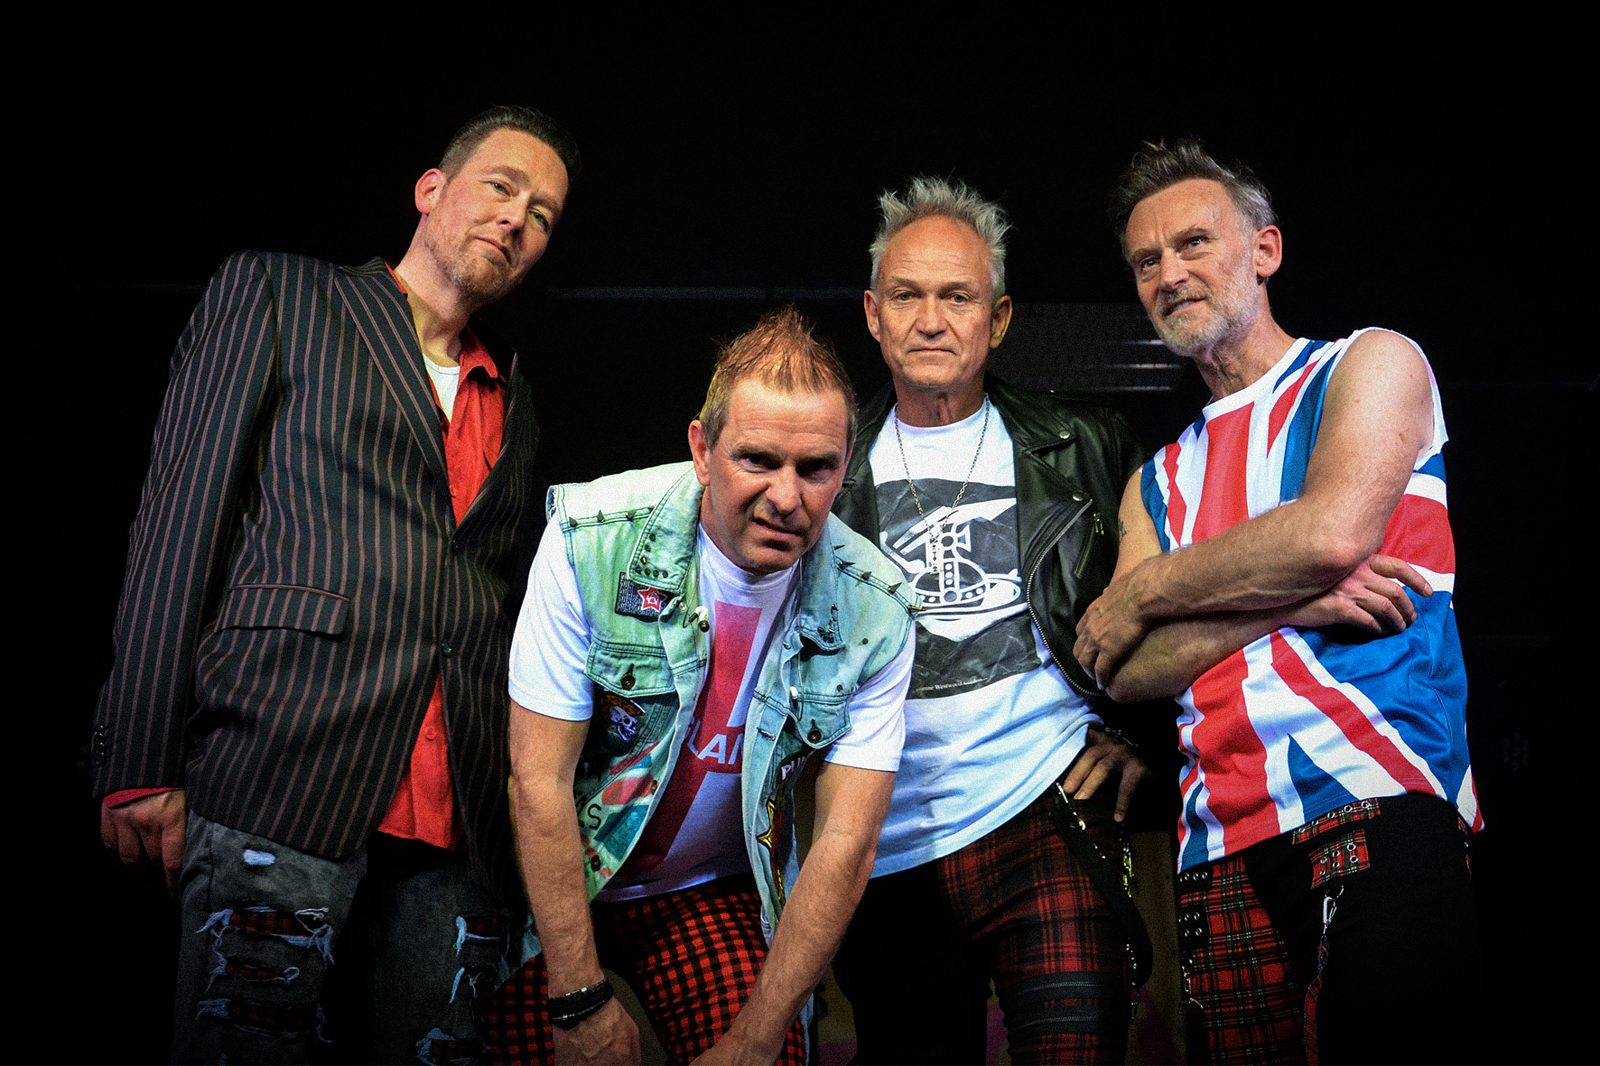
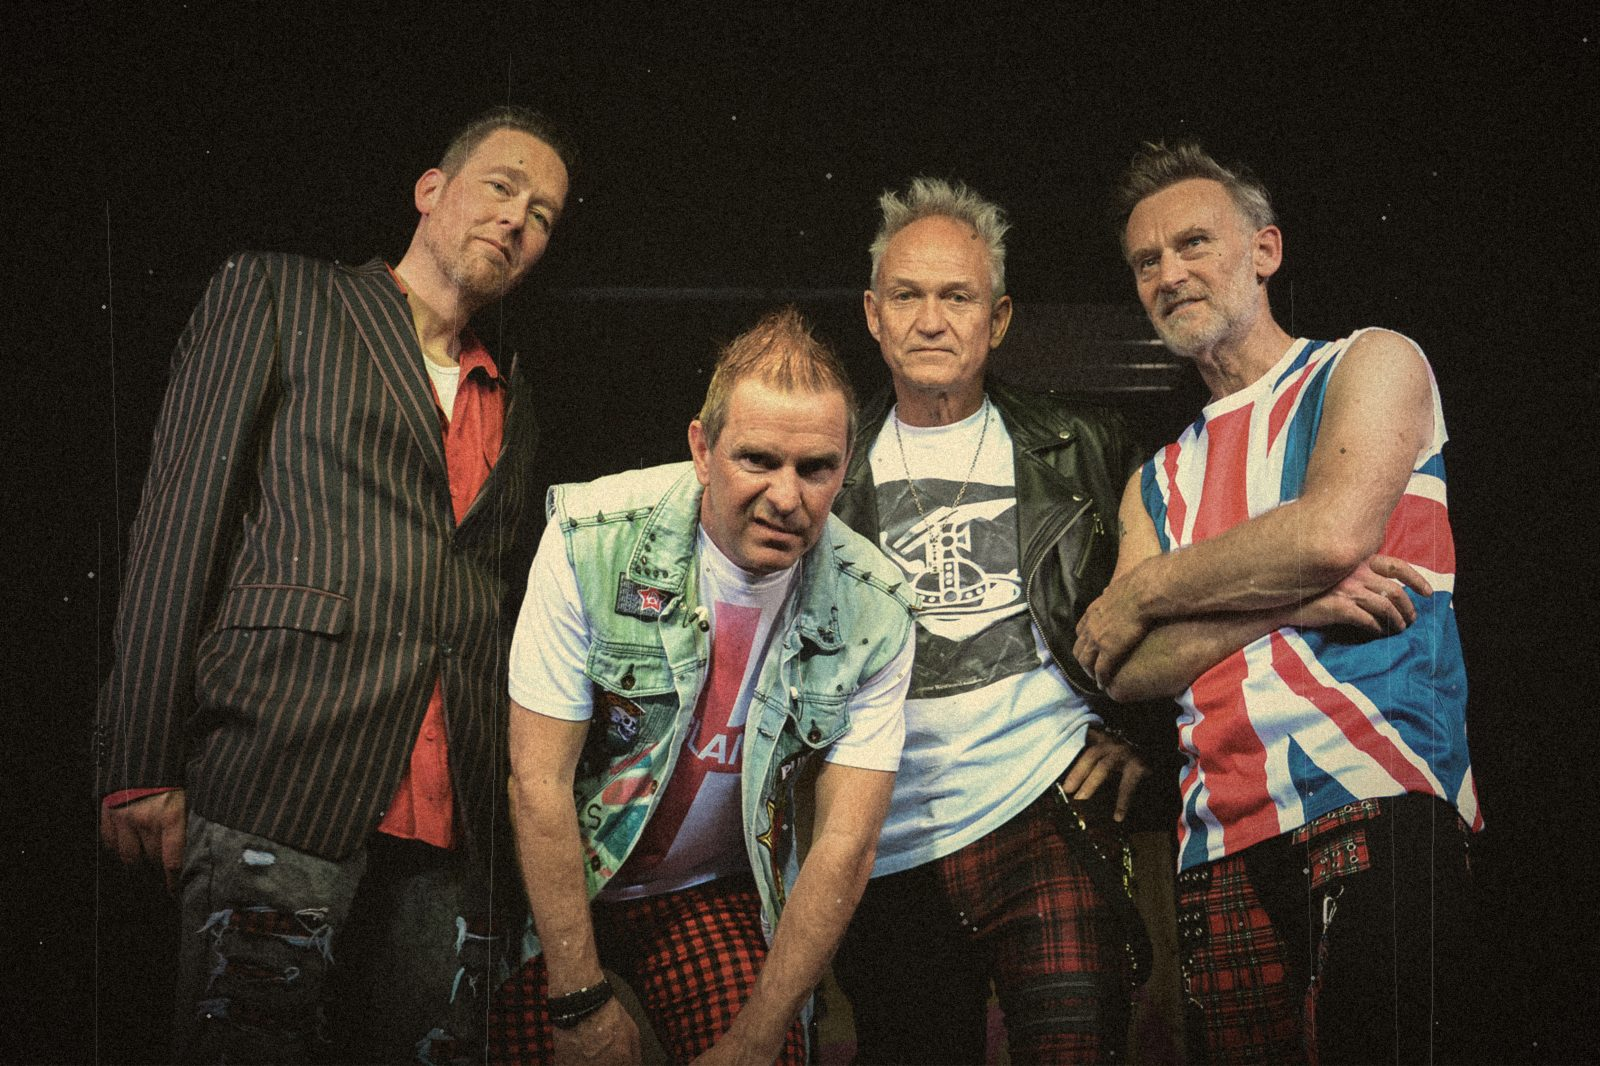
Bandfoto's verouderd, zonder fotorand en onderschrift
Claude-Session: https://claude.ai/code/session_01EPF2kbK1nb6gBpw9xHY7dv

diff --git a/style.css b/style.css
@@ -260,9 +260,9 @@ a.chip:hover { background: var(--roze); }
 
 /* ---------- Foto's ---------- */
 #fotos { background: var(--zwart); }
-.foto-grid { display: grid; grid-template-columns: repeat(auto-fill, minmax(min(100%, 300px), 1fr)); gap: 26px; }
+.foto-grid { display: grid; grid-template-columns: repeat(auto-fill, minmax(min(100%, 420px), 1fr)); gap: 32px; }
 .foto {
-  margin: 0; background: var(--wit); padding: 10px 10px 0; color: var(--inkt);
+  position: relative; margin: 0; color: var(--inkt);
   box-shadow: 0 10px 24px rgba(0, 0, 0, .5); transition: transform .15s;
 }
 .foto:nth-child(3n+1) { transform: rotate(-1.4deg); }
@@ -271,8 +271,8 @@ a.chip:hover { background: var(--roze); }
 .foto:hover { transform: rotate(0) scale(1.02); }
 .foto button { all: unset; cursor: zoom-in; display: block; width: 100%; }
 .foto button:focus-visible { outline: 3px solid var(--roze); outline-offset: 2px; }
-.foto img { aspect-ratio: 4 / 3; width: 100%; object-fit: cover; }
-.foto figcaption { font-family: var(--f-serif); font-size: .95rem; padding: 10px 2px 12px; }
+.foto img { aspect-ratio: 3 / 2; width: 100%; object-fit: cover; }
+.foto figcaption { position: absolute; width: 1px; height: 1px; overflow: hidden; clip: rect(0 0 0 0); white-space: nowrap; }
 
 .lichtbak { border: 0; padding: 0; background: transparent; max-width: min(1100px, 94vw); color: var(--geel); }
 .lichtbak::backdrop { background: rgba(20, 16, 18, .92); }

diff --git a/index.html b/index.html
@@ -50,7 +50,7 @@
 <link rel="preconnect" href="https://fonts.googleapis.com">
 <link rel="preconnect" href="https://fonts.gstatic.com" crossorigin>
 <link rel="stylesheet" href="https://fonts.googleapis.com/css2?family=Anton&family=Archivo:wght@400;600;800&family=Special+Elite&family=Tinos:wght@400;700&display=swap">
-<link rel="stylesheet" href="style.css?v=20261117b">
+<link rel="stylesheet" href="style.css?v=20261117c">
 </head>
 <body>
 
@@ -216,7 +216,7 @@
   <p id="lichtbak-tekst"></p>
 </dialog>
 
-<script src="gegevens.js?v=20261117e"></script>
+<script src="gegevens.js?v=20261117f"></script>
 <script src="site.js?v=20261117c"></script>
 </body>
 </html>
